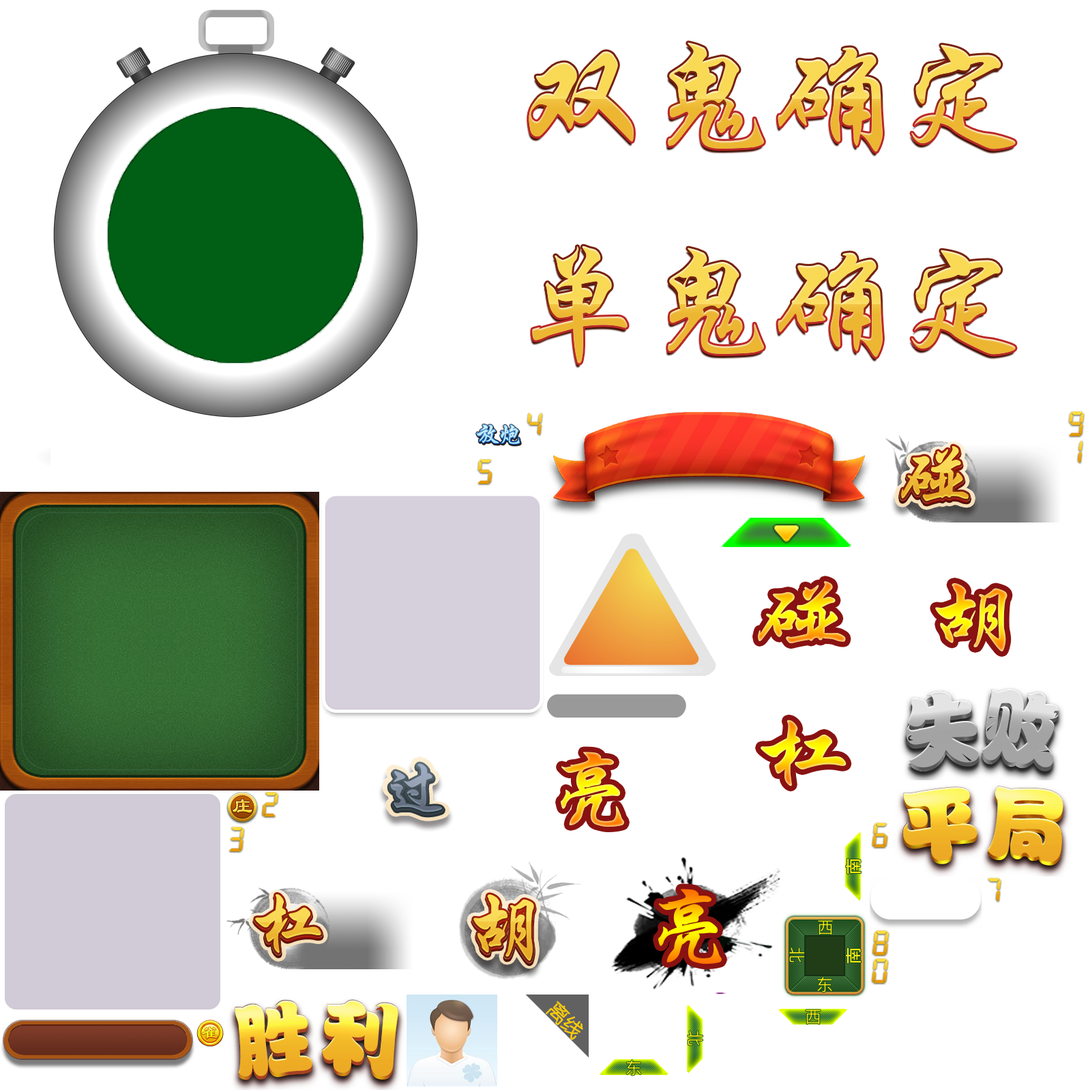
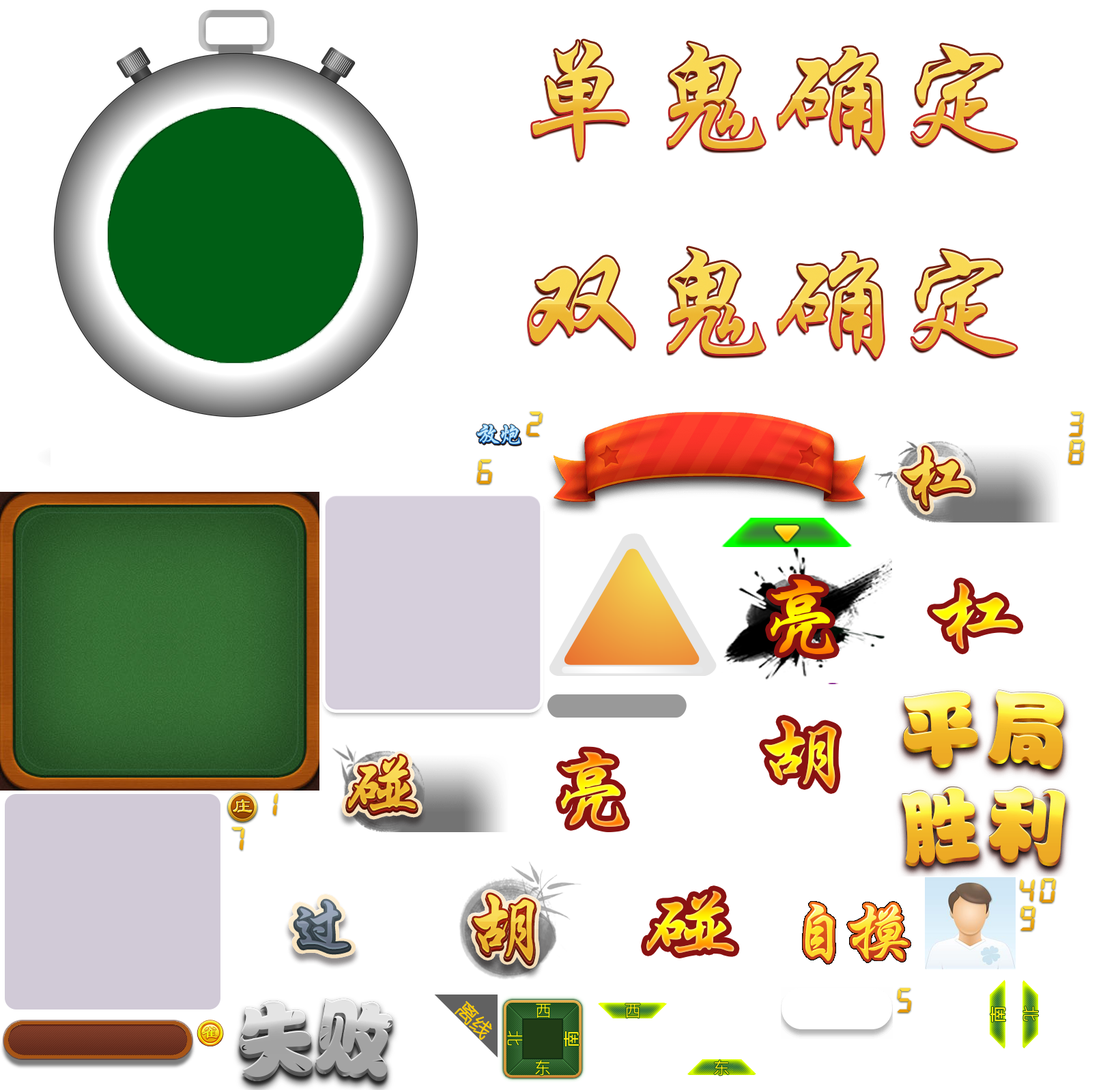
添加自摸的图样

diff --git a/client/src/ui/layaUI.max.all.ts b/client/src/ui/layaUI.max.all.ts
@@ -574,7 +574,7 @@ module ui.test {
 		public btn_left:Laya.Button;
 		public btn_restart:Laya.Button;
 
-        public static  uiView:any ={"type":"View","props":{"width":1920,"height":1080},"child":[{"type":"Image","props":{"y":0,"x":0,"width":1920,"var":"backImage","skin":"ui/game/bg.png","sizeGrid":"150,150,150,150,1","height":1080}},{"type":"Image","props":{"y":1116,"x":719,"skin":"ui/game/result_title_bg.png"},"child":[{"type":"Image","props":{"y":-10,"x":104,"skin":"ui/game/result_title_win.png"}}]},{"type":"Sprite","props":{"y":54,"x":54,"width":2020,"var":"resultLine3","scaleY":0.9,"scaleX":0.9,"height":300},"child":[{"type":"Sprite","props":{"y":-31,"x":3,"width":147,"var":"userHead3","height":216},"child":[{"type":"Image","props":{"y":55,"x":7,"width":133,"skin":"ui/game/user_head_bg.png","height":133},"child":[{"type":"Image","props":{"y":0,"x":0,"width":133,"var":"userHeadMask3","skin":"ui/game/user_head_mask.png","height":133}},{"type":"Sprite","props":{"y":0,"x":0,"width":133,"var":"userHeadIconOut3","height":133},"child":[{"type":"Image","props":{"y":4,"x":7,"width":119,"var":"userHeadIcon3","skin":"ui/game/user_head_default.png","pivotY":0,"pivotX":0,"height":115}}]}]},{"type":"Image","props":{"y":37,"x":-7,"var":"zhuang3","skin":"ui/game/zhangjia.png"}},{"type":"Text","props":{"y":195,"x":-1,"width":142,"var":"userName3","text":"用户名称","height":31,"fontSize":32,"color":"#ffcc01","align":"center"}}]},{"type":"Sprite","props":{"y":0,"x":311,"width":1324,"var":"shouPai3","height":172},"child":[{"type":"Sprite","props":{"y":26,"x":0,"width":250,"visible":false,"var":"peng3","height":128},"child":[{"type":"Image","props":{"y":0,"x":0,"skin":"ui/majiang/zheng_bg.png"},"child":[{"type":"Image","props":{"y":0,"x":0,"skin":"ui/majiang/zheng_19.png"}}]},{"type":"Image","props":{"y":0,"x":84,"skin":"ui/majiang/zheng_bg.png"},"child":[{"type":"Image","props":{"y":0,"x":0,"skin":"ui/majiang/zheng_19.png"}}]},{"type":"Image","props":{"y":0,"x":168,"skin":"ui/majiang/zheng_bg.png"},"child":[{"type":"Image","props":{"y":0,"x":0,"skin":"ui/majiang/zheng_19.png"}}]}]},{"type":"Sprite","props":{"y":26,"x":0,"width":250,"visible":false,"var":"selfPeng3","height":128},"child":[{"type":"Image","props":{"y":0,"x":0,"skin":"ui/majiang/shou_bg.png"},"child":[{"type":"Image","props":{"y":0,"x":0,"skin":"ui/majiang/shou_19.png"}}]},{"type":"Image","props":{"y":0,"x":84,"skin":"ui/majiang/shou_bg.png"},"child":[{"type":"Image","props":{"y":0,"x":0,"skin":"ui/majiang/shou_19.png"}}]},{"type":"Image","props":{"y":0,"x":168,"skin":"ui/majiang/shou_bg.png"},"child":[{"type":"Image","props":{"y":0,"x":0,"skin":"ui/majiang/shou_19.png"}}]}]},{"type":"Sprite","props":{"y":26,"x":508,"width":250,"visible":false,"var":"anGangHide3","height":128},"child":[{"type":"Image","props":{"y":0,"x":84,"skin":"ui/majiang/zheng_an.png"}},{"type":"Image","props":{"y":0,"x":0,"skin":"ui/majiang/zheng_an.png"}},{"type":"Image","props":{"y":-28,"x":84,"skin":"ui/majiang/zheng_an.png"}},{"type":"Image","props":{"y":0,"x":168,"skin":"ui/majiang/zheng_an.png"}}]},{"type":"Sprite","props":{"y":26,"x":760,"width":248,"visible":false,"var":"mingGang3","height":128},"child":[{"type":"Image","props":{"y":0,"x":0,"skin":"ui/majiang/zheng_bg.png"},"child":[{"type":"Image","props":{"y":0,"x":0,"skin":"ui/majiang/zheng_19.png"}}]},{"type":"Image","props":{"y":0,"x":83,"skin":"ui/majiang/zheng_bg.png"},"child":[{"type":"Image","props":{"y":0,"x":0,"skin":"ui/majiang/zheng_19.png"}}]},{"type":"Image","props":{"y":0,"x":166,"skin":"ui/majiang/zheng_bg.png"},"child":[{"type":"Image","props":{"y":0,"x":0,"skin":"ui/majiang/zheng_19.png"}}]},{"type":"Image","props":{"y":-31,"x":83,"skin":"ui/majiang/zheng_bg.png"},"child":[{"type":"Image","props":{"y":0,"x":0,"skin":"ui/majiang/zheng_19.png"}}]}]},{"type":"Sprite","props":{"y":26,"x":254,"width":270,"visible":false,"var":"anGang3","pivotX":0,"height":128},"child":[{"type":"Image","props":{"y":0,"x":84,"skin":"ui/majiang/zheng_an.png"}},{"type":"Image","props":{"y":0,"x":0,"skin":"ui/majiang/zheng_an.png"}},{"type":"Image","props":{"y":0,"x":168,"skin":"ui/majiang/zheng_an.png"}},{"type":"Image","props":{"y":-28,"x":84,"skin":"ui/majiang/zheng_bg.png"},"child":[{"type":"Image","props":{"y":0,"x":0,"skin":"ui/majiang/zheng_19.png"}}]}]},{"type":"Sprite","props":{"y":26,"x":0,"width":82,"visible":false,"var":"shou3","height":128},"child":[{"type":"Image","props":{"y":0,"x":0,"skin":"ui/majiang/shou_bg.png"},"child":[{"type":"Image","props":{"y":0,"x":0,"var":"skin_shoupai3","skin":"ui/majiang/shou_32.png"}}]}]},{"type":"Sprite","props":{"y":0,"x":1200,"width":82,"visible":false,"var":"fa3","pivotY":-26,"height":128},"child":[{"type":"Image","props":{"y":0,"x":0,"width":82,"skin":"ui/majiang/shou_bg.png","height":128},"child":[{"type":"Image","props":{"y":0,"x":0,"skin":"ui/majiang/shou_0.png"}}]}]}]},{"type":"Label","props":{"y":169,"x":313,"width":1190,"visible":false,"var":"win_info3","text":"屁胡X1","height":48,"fontSize":36,"color":"#ffffff"}},{"type":"Label","props":{"y":221,"x":310,"width":1196,"visible":false,"var":"lose_info3","text":"屁胡X1","height":48,"fontSize":36,"color":"#ffffff"}},{"type":"Label","props":{"y":222,"x":1674,"width":308,"visible":true,"var":"oneju_score3","text":"得分：+800","height":48,"fontSize":36,"color":"#ffffff"}},{"type":"Image","props":{"y":16,"x":1705,"width":250,"visible":false,"var":"img_huOrLose3","skin":"ui/game/hu.png","height":200}}]},{"type":"Sprite","props":{"y":334,"x":54,"width":2020,"var":"resultLine0","scaleY":0.9,"scaleX":0.9,"height":300},"child":[{"type":"Sprite","props":{"y":-31,"x":4,"width":147,"var":"userHead0","height":216},"child":[{"type":"Image","props":{"y":55,"x":7,"width":133,"skin":"ui/game/user_head_bg.png","height":133},"child":[{"type":"Image","props":{"y":0,"x":0,"width":133,"skin":"ui/game/user_head_mask.png","height":133}},{"type":"Sprite","props":{"y":0,"x":0,"width":133,"height":133},"child":[{"type":"Image","props":{"y":4,"x":7,"width":119,"var":"userHeadIcon0","skin":"ui/game/user_head_default.png","pivotY":0,"pivotX":0,"height":115}}]}]},{"type":"Image","props":{"y":37,"x":-7,"var":"zhuang0","skin":"ui/game/zhangjia.png"}},{"type":"Text","props":{"y":190,"x":-3,"width":142,"var":"userName0","text":"用户名称","height":31,"fontSize":32,"color":"#ffcc01","align":"center"}}]},{"type":"Sprite","props":{"y":0,"x":311,"width":1324,"var":"shouPai0","height":172},"child":[{"type":"Sprite","props":{"y":26,"x":0,"width":250,"visible":false,"var":"peng0","height":128},"child":[{"type":"Image","props":{"y":0,"x":0,"skin":"ui/majiang/zheng_bg.png"},"child":[{"type":"Image","props":{"y":0,"x":0,"skin":"ui/majiang/zheng_19.png"}}]},{"type":"Image","props":{"y":0,"x":84,"skin":"ui/majiang/zheng_bg.png"},"child":[{"type":"Image","props":{"y":0,"x":0,"skin":"ui/majiang/zheng_19.png"}}]},{"type":"Image","props":{"y":0,"x":168,"skin":"ui/majiang/zheng_bg.png"},"child":[{"type":"Image","props":{"y":0,"x":0,"skin":"ui/majiang/zheng_19.png"}}]}]},{"type":"Sprite","props":{"y":26,"x":0,"width":250,"visible":false,"var":"selfPeng0","height":128},"child":[{"type":"Image","props":{"y":0,"x":0,"skin":"ui/majiang/shou_bg.png"},"child":[{"type":"Image","props":{"y":0,"x":0,"skin":"ui/majiang/shou_19.png"}}]},{"type":"Image","props":{"y":0,"x":84,"skin":"ui/majiang/shou_bg.png"},"child":[{"type":"Image","props":{"y":0,"x":0,"skin":"ui/majiang/shou_19.png"}}]},{"type":"Image","props":{"y":0,"x":168,"skin":"ui/majiang/shou_bg.png"},"child":[{"type":"Image","props":{"y":0,"x":0,"skin":"ui/majiang/shou_19.png"}}]}]},{"type":"Sprite","props":{"y":26,"x":508,"width":250,"visible":false,"var":"anGangHide0","height":128},"child":[{"type":"Image","props":{"y":0,"x":84,"skin":"ui/majiang/zheng_an.png"}},{"type":"Image","props":{"y":0,"x":0,"skin":"ui/majiang/zheng_an.png"}},{"type":"Image","props":{"y":-28,"x":84,"skin":"ui/majiang/zheng_an.png"}},{"type":"Image","props":{"y":0,"x":168,"skin":"ui/majiang/zheng_an.png"}}]},{"type":"Sprite","props":{"y":26,"x":760,"width":248,"visible":false,"var":"mingGang0","height":128},"child":[{"type":"Image","props":{"y":0,"x":0,"skin":"ui/majiang/zheng_bg.png"},"child":[{"type":"Image","props":{"y":0,"x":0,"skin":"ui/majiang/zheng_19.png"}}]},{"type":"Image","props":{"y":0,"x":83,"skin":"ui/majiang/zheng_bg.png"},"child":[{"type":"Image","props":{"y":0,"x":0,"skin":"ui/majiang/zheng_19.png"}}]},{"type":"Image","props":{"y":0,"x":166,"skin":"ui/majiang/zheng_bg.png"},"child":[{"type":"Image","props":{"y":0,"x":0,"skin":"ui/majiang/zheng_19.png"}}]},{"type":"Image","props":{"y":-31,"x":83,"skin":"ui/majiang/zheng_bg.png"},"child":[{"type":"Image","props":{"y":0,"x":0,"skin":"ui/majiang/zheng_19.png"}}]}]},{"type":"Sprite","props":{"y":26,"x":254,"width":270,"visible":false,"var":"anGang0","pivotX":0,"height":128},"child":[{"type":"Image","props":{"y":0,"x":84,"skin":"ui/majiang/zheng_an.png"}},{"type":"Image","props":{"y":0,"x":0,"skin":"ui/majiang/zheng_an.png"}},{"type":"Image","props":{"y":0,"x":168,"skin":"ui/majiang/zheng_an.png"}},{"type":"Image","props":{"y":-28,"x":84,"skin":"ui/majiang/zheng_bg.png"},"child":[{"type":"Image","props":{"y":0,"x":0,"skin":"ui/majiang/zheng_19.png"}}]}]},{"type":"Sprite","props":{"y":26,"x":0,"width":82,"visible":false,"var":"shou0","height":128},"child":[{"type":"Image","props":{"y":0,"x":0,"skin":"ui/majiang/shou_bg.png"},"child":[{"type":"Image","props":{"y":0,"x":0,"var":"skin_shoupai0","skin":"ui/majiang/shou_32.png"}}]}]},{"type":"Sprite","props":{"y":0,"x":1200,"width":82,"visible":false,"var":"fa0","pivotY":-26,"height":128},"child":[{"type":"Image","props":{"y":0,"x":0,"width":82,"skin":"ui/majiang/shou_bg.png","height":128},"child":[{"type":"Image","props":{"y":0,"x":0,"skin":"ui/majiang/shou_0.png"}}]}]}]},{"type":"Label","props":{"y":169,"x":313,"width":1194,"visible":false,"var":"win_info0","text":"屁胡X1","height":48,"fontSize":36,"color":"#ffffff"}},{"type":"Label","props":{"y":222,"x":313,"width":1197,"visible":false,"var":"lose_info0","text":"屁胡X1","height":48,"fontSize":36,"color":"#ffffff"}},{"type":"Label","props":{"y":225,"x":1670,"width":312,"visible":true,"var":"oneju_score0","text":"总分：+800","height":48,"fontSize":36,"color":"#ffffff"}},{"type":"Image","props":{"y":16,"x":1705,"width":250,"visible":false,"var":"img_huOrLose0","skin":"ui/game/fangpao.png","height":200}}]},{"type":"Sprite","props":{"y":632,"x":58,"width":2020,"var":"resultLine2","scaleY":0.9,"scaleX":0.9,"height":300},"child":[{"type":"Sprite","props":{"y":-26,"x":6,"width":147,"var":"userHead2","height":216},"child":[{"type":"Image","props":{"y":55,"x":7,"width":133,"skin":"ui/game/user_head_bg.png","height":133},"child":[{"type":"Image","props":{"y":0,"x":0,"width":133,"skin":"ui/game/user_head_mask.png","height":133}},{"type":"Sprite","props":{"y":0,"x":0,"width":133,"height":133},"child":[{"type":"Image","props":{"y":4,"x":7,"width":119,"var":"userHeadIcon2","skin":"ui/game/user_head_default.png","pivotY":0,"pivotX":0,"height":115}}]}]},{"type":"Image","props":{"y":37,"x":-7,"var":"zhuang2","skin":"ui/game/zhangjia.png"}},{"type":"Text","props":{"y":192,"x":1,"width":142,"var":"userName2","text":"用户名称","height":31,"fontSize":32,"color":"#ffcc01","align":"center"}}]},{"type":"Sprite","props":{"y":0,"x":311,"width":1324,"var":"shouPai2","height":172},"child":[{"type":"Sprite","props":{"y":26,"x":0,"width":250,"visible":false,"var":"peng2","height":128},"child":[{"type":"Image","props":{"y":0,"x":0,"skin":"ui/majiang/zheng_bg.png"},"child":[{"type":"Image","props":{"y":0,"x":0,"skin":"ui/majiang/zheng_19.png"}}]},{"type":"Image","props":{"y":0,"x":84,"skin":"ui/majiang/zheng_bg.png"},"child":[{"type":"Image","props":{"y":0,"x":0,"skin":"ui/majiang/zheng_19.png"}}]},{"type":"Image","props":{"y":0,"x":168,"skin":"ui/majiang/zheng_bg.png"},"child":[{"type":"Image","props":{"y":0,"x":0,"skin":"ui/majiang/zheng_19.png"}}]}]},{"type":"Sprite","props":{"y":26,"x":0,"width":250,"visible":false,"var":"selfPeng2","height":128},"child":[{"type":"Image","props":{"y":0,"x":0,"skin":"ui/majiang/shou_bg.png"},"child":[{"type":"Image","props":{"y":0,"x":0,"skin":"ui/majiang/shou_19.png"}}]},{"type":"Image","props":{"y":0,"x":84,"skin":"ui/majiang/shou_bg.png"},"child":[{"type":"Image","props":{"y":0,"x":0,"skin":"ui/majiang/shou_19.png"}}]},{"type":"Image","props":{"y":0,"x":168,"skin":"ui/majiang/shou_bg.png"},"child":[{"type":"Image","props":{"y":0,"x":0,"skin":"ui/majiang/shou_19.png"}}]}]},{"type":"Sprite","props":{"y":26,"x":508,"width":250,"visible":false,"var":"anGangHide2","height":128},"child":[{"type":"Image","props":{"y":0,"x":84,"skin":"ui/majiang/zheng_an.png"}},{"type":"Image","props":{"y":0,"x":0,"skin":"ui/majiang/zheng_an.png"}},{"type":"Image","props":{"y":-28,"x":84,"skin":"ui/majiang/zheng_an.png"}},{"type":"Image","props":{"y":0,"x":168,"skin":"ui/majiang/zheng_an.png"}}]},{"type":"Sprite","props":{"y":26,"x":760,"width":248,"visible":false,"var":"mingGang2","height":128},"child":[{"type":"Image","props":{"y":0,"x":0,"skin":"ui/majiang/zheng_bg.png"},"child":[{"type":"Image","props":{"y":0,"x":0,"skin":"ui/majiang/zheng_19.png"}}]},{"type":"Image","props":{"y":0,"x":83,"skin":"ui/majiang/zheng_bg.png"},"child":[{"type":"Image","props":{"y":0,"x":0,"skin":"ui/majiang/zheng_19.png"}}]},{"type":"Image","props":{"y":0,"x":166,"skin":"ui/majiang/zheng_bg.png"},"child":[{"type":"Image","props":{"y":0,"x":0,"skin":"ui/majiang/zheng_19.png"}}]},{"type":"Image","props":{"y":-31,"x":83,"skin":"ui/majiang/zheng_bg.png"},"child":[{"type":"Image","props":{"y":0,"x":0,"skin":"ui/majiang/zheng_19.png"}}]}]},{"type":"Sprite","props":{"y":26,"x":254,"width":270,"visible":false,"var":"anGang2","pivotX":0,"height":128},"child":[{"type":"Image","props":{"y":0,"x":84,"skin":"ui/majiang/zheng_an.png"}},{"type":"Image","props":{"y":0,"x":0,"skin":"ui/majiang/zheng_an.png"}},{"type":"Image","props":{"y":0,"x":168,"skin":"ui/majiang/zheng_an.png"}},{"type":"Image","props":{"y":-28,"x":84,"skin":"ui/majiang/zheng_bg.png"},"child":[{"type":"Image","props":{"y":0,"x":0,"skin":"ui/majiang/zheng_19.png"}}]}]},{"type":"Sprite","props":{"y":26,"x":0,"width":82,"visible":false,"var":"shou2","height":128},"child":[{"type":"Image","props":{"y":0,"x":0,"skin":"ui/majiang/shou_bg.png"},"child":[{"type":"Image","props":{"y":0,"x":0,"var":"skin_shoupai2","skin":"ui/majiang/shou_32.png"}}]}]},{"type":"Sprite","props":{"y":0,"x":1200,"width":82,"visible":false,"var":"fa2","pivotY":-26,"height":128},"child":[{"type":"Image","props":{"y":0,"x":0,"width":82,"skin":"ui/majiang/shou_bg.png","height":128},"child":[{"type":"Image","props":{"y":0,"x":0,"skin":"ui/majiang/shou_0.png"}}]}]}]},{"type":"Label","props":{"y":169,"x":313,"width":1194,"visible":false,"var":"win_info2","text":"屁胡X1","height":48,"fontSize":36,"color":"#ffffff"}},{"type":"Label","props":{"y":221,"x":310,"width":1194,"visible":false,"var":"lose_info2","text":"屁胡X1","height":48,"fontSize":36,"color":"#ffffff"}},{"type":"Label","props":{"y":217,"x":1671,"width":314,"visible":true,"var":"oneju_score2","text":"总分：+800","height":48,"fontSize":36,"color":"#ffffff"}},{"type":"Image","props":{"y":16,"x":1705,"width":250,"visible":false,"var":"img_huOrLose2","skin":"ui/game/hu.png","height":200}}]},{"type":"Button","props":{"y":930,"x":1091,"var":"btn_left","skin":"base/btn_danger.png","scaleY":1.5,"scaleX":1.5,"labelSize":38,"labelPadding":"0,0,6,0","labelColors":"#FFFFFF,#FFFFFF,#FFFFFF","label":"离开"}},{"type":"Button","props":{"y":930,"x":1445,"var":"btn_restart","skin":"base/btn_normal.png","scaleY":1.5,"scaleX":1.5,"labelSize":36,"labelPadding":"0,0,6,0","labelColors":"#FFFFFF,#FFFFFF,#FFFFFF","label":"再来一局(9)"}}]};
+        public static  uiView:any ={"type":"View","props":{"width":1920,"height":1080},"child":[{"type":"Image","props":{"y":0,"x":0,"width":1920,"var":"backImage","skin":"ui/game/bg.png","sizeGrid":"150,150,150,150,1","height":1080}},{"type":"Image","props":{"y":1116,"x":719,"skin":"ui/game/result_title_bg.png"},"child":[{"type":"Image","props":{"y":-10,"x":104,"skin":"ui/game/result_title_win.png"}}]},{"type":"Sprite","props":{"y":54,"x":54,"width":2020,"var":"resultLine3","scaleY":0.9,"scaleX":0.9,"height":300},"child":[{"type":"Sprite","props":{"y":-31,"x":3,"width":147,"var":"userHead3","height":216},"child":[{"type":"Image","props":{"y":55,"x":7,"width":133,"skin":"ui/game/user_head_bg.png","height":133},"child":[{"type":"Image","props":{"y":0,"x":0,"width":133,"var":"userHeadMask3","skin":"ui/game/user_head_mask.png","height":133}},{"type":"Sprite","props":{"y":0,"x":0,"width":133,"var":"userHeadIconOut3","height":133},"child":[{"type":"Image","props":{"y":4,"x":7,"width":119,"var":"userHeadIcon3","skin":"ui/game/user_head_default.png","pivotY":0,"pivotX":0,"height":115}}]}]},{"type":"Image","props":{"y":37,"x":-7,"var":"zhuang3","skin":"ui/game/zhangjia.png"}},{"type":"Text","props":{"y":195,"x":-1,"width":142,"var":"userName3","text":"用户名称","height":31,"fontSize":32,"color":"#ffcc01","align":"center"}}]},{"type":"Sprite","props":{"y":0,"x":311,"width":1324,"var":"shouPai3","height":172},"child":[{"type":"Sprite","props":{"y":26,"x":0,"width":250,"visible":false,"var":"peng3","height":128},"child":[{"type":"Image","props":{"y":0,"x":0,"skin":"ui/majiang/zheng_bg.png"},"child":[{"type":"Image","props":{"y":0,"x":0,"skin":"ui/majiang/zheng_19.png"}}]},{"type":"Image","props":{"y":0,"x":84,"skin":"ui/majiang/zheng_bg.png"},"child":[{"type":"Image","props":{"y":0,"x":0,"skin":"ui/majiang/zheng_19.png"}}]},{"type":"Image","props":{"y":0,"x":168,"skin":"ui/majiang/zheng_bg.png"},"child":[{"type":"Image","props":{"y":0,"x":0,"skin":"ui/majiang/zheng_19.png"}}]}]},{"type":"Sprite","props":{"y":26,"x":0,"width":250,"visible":false,"var":"selfPeng3","height":128},"child":[{"type":"Image","props":{"y":0,"x":0,"skin":"ui/majiang/shou_bg.png"},"child":[{"type":"Image","props":{"y":0,"x":0,"skin":"ui/majiang/shou_19.png"}}]},{"type":"Image","props":{"y":0,"x":84,"skin":"ui/majiang/shou_bg.png"},"child":[{"type":"Image","props":{"y":0,"x":0,"skin":"ui/majiang/shou_19.png"}}]},{"type":"Image","props":{"y":0,"x":168,"skin":"ui/majiang/shou_bg.png"},"child":[{"type":"Image","props":{"y":0,"x":0,"skin":"ui/majiang/shou_19.png"}}]}]},{"type":"Sprite","props":{"y":26,"x":508,"width":250,"visible":false,"var":"anGangHide3","height":128},"child":[{"type":"Image","props":{"y":0,"x":84,"skin":"ui/majiang/zheng_an.png"}},{"type":"Image","props":{"y":0,"x":0,"skin":"ui/majiang/zheng_an.png"}},{"type":"Image","props":{"y":-28,"x":84,"skin":"ui/majiang/zheng_an.png"}},{"type":"Image","props":{"y":0,"x":168,"skin":"ui/majiang/zheng_an.png"}}]},{"type":"Sprite","props":{"y":26,"x":760,"width":248,"visible":false,"var":"mingGang3","height":128},"child":[{"type":"Image","props":{"y":0,"x":0,"skin":"ui/majiang/zheng_bg.png"},"child":[{"type":"Image","props":{"y":0,"x":0,"skin":"ui/majiang/zheng_19.png"}}]},{"type":"Image","props":{"y":0,"x":83,"skin":"ui/majiang/zheng_bg.png"},"child":[{"type":"Image","props":{"y":0,"x":0,"skin":"ui/majiang/zheng_19.png"}}]},{"type":"Image","props":{"y":0,"x":166,"skin":"ui/majiang/zheng_bg.png"},"child":[{"type":"Image","props":{"y":0,"x":0,"skin":"ui/majiang/zheng_19.png"}}]},{"type":"Image","props":{"y":-31,"x":83,"skin":"ui/majiang/zheng_bg.png"},"child":[{"type":"Image","props":{"y":0,"x":0,"skin":"ui/majiang/zheng_19.png"}}]}]},{"type":"Sprite","props":{"y":26,"x":254,"width":270,"visible":false,"var":"anGang3","pivotX":0,"height":128},"child":[{"type":"Image","props":{"y":0,"x":84,"skin":"ui/majiang/zheng_an.png"}},{"type":"Image","props":{"y":0,"x":0,"skin":"ui/majiang/zheng_an.png"}},{"type":"Image","props":{"y":0,"x":168,"skin":"ui/majiang/zheng_an.png"}},{"type":"Image","props":{"y":-28,"x":84,"skin":"ui/majiang/zheng_bg.png"},"child":[{"type":"Image","props":{"y":0,"x":0,"skin":"ui/majiang/zheng_19.png"}}]}]},{"type":"Sprite","props":{"y":26,"x":0,"width":82,"visible":false,"var":"shou3","height":128},"child":[{"type":"Image","props":{"y":0,"x":0,"skin":"ui/majiang/shou_bg.png"},"child":[{"type":"Image","props":{"y":0,"x":0,"var":"skin_shoupai3","skin":"ui/majiang/shou_32.png"}}]}]},{"type":"Sprite","props":{"y":0,"x":1200,"width":82,"visible":false,"var":"fa3","pivotY":-26,"height":128},"child":[{"type":"Image","props":{"y":0,"x":0,"width":82,"skin":"ui/majiang/shou_bg.png","height":128},"child":[{"type":"Image","props":{"y":0,"x":0,"skin":"ui/majiang/shou_0.png"}}]}]}]},{"type":"Label","props":{"y":169,"x":313,"width":1190,"visible":false,"var":"win_info3","text":"屁胡X1","height":48,"fontSize":36,"color":"#ffffff"}},{"type":"Label","props":{"y":221,"x":310,"width":1196,"visible":false,"var":"lose_info3","text":"屁胡X1","height":48,"fontSize":36,"color":"#ffffff"}},{"type":"Label","props":{"y":222,"x":1674,"width":308,"visible":true,"var":"oneju_score3","text":"得分：+800","height":48,"fontSize":36,"color":"#ffffff"}},{"type":"Image","props":{"y":16,"x":1705,"width":250,"visible":false,"var":"img_huOrLose3","skin":"ui/game/zimo.png","height":200}}]},{"type":"Sprite","props":{"y":334,"x":54,"width":2020,"var":"resultLine0","scaleY":0.9,"scaleX":0.9,"height":300},"child":[{"type":"Sprite","props":{"y":-31,"x":4,"width":147,"var":"userHead0","height":216},"child":[{"type":"Image","props":{"y":55,"x":7,"width":133,"skin":"ui/game/user_head_bg.png","height":133},"child":[{"type":"Image","props":{"y":0,"x":0,"width":133,"skin":"ui/game/user_head_mask.png","height":133}},{"type":"Sprite","props":{"y":0,"x":0,"width":133,"height":133},"child":[{"type":"Image","props":{"y":4,"x":7,"width":119,"var":"userHeadIcon0","skin":"ui/game/user_head_default.png","pivotY":0,"pivotX":0,"height":115}}]}]},{"type":"Image","props":{"y":37,"x":-7,"var":"zhuang0","skin":"ui/game/zhangjia.png"}},{"type":"Text","props":{"y":190,"x":-3,"width":142,"var":"userName0","text":"用户名称","height":31,"fontSize":32,"color":"#ffcc01","align":"center"}}]},{"type":"Sprite","props":{"y":0,"x":311,"width":1324,"var":"shouPai0","height":172},"child":[{"type":"Sprite","props":{"y":26,"x":0,"width":250,"visible":false,"var":"peng0","height":128},"child":[{"type":"Image","props":{"y":0,"x":0,"skin":"ui/majiang/zheng_bg.png"},"child":[{"type":"Image","props":{"y":0,"x":0,"skin":"ui/majiang/zheng_19.png"}}]},{"type":"Image","props":{"y":0,"x":84,"skin":"ui/majiang/zheng_bg.png"},"child":[{"type":"Image","props":{"y":0,"x":0,"skin":"ui/majiang/zheng_19.png"}}]},{"type":"Image","props":{"y":0,"x":168,"skin":"ui/majiang/zheng_bg.png"},"child":[{"type":"Image","props":{"y":0,"x":0,"skin":"ui/majiang/zheng_19.png"}}]}]},{"type":"Sprite","props":{"y":26,"x":0,"width":250,"visible":false,"var":"selfPeng0","height":128},"child":[{"type":"Image","props":{"y":0,"x":0,"skin":"ui/majiang/shou_bg.png"},"child":[{"type":"Image","props":{"y":0,"x":0,"skin":"ui/majiang/shou_19.png"}}]},{"type":"Image","props":{"y":0,"x":84,"skin":"ui/majiang/shou_bg.png"},"child":[{"type":"Image","props":{"y":0,"x":0,"skin":"ui/majiang/shou_19.png"}}]},{"type":"Image","props":{"y":0,"x":168,"skin":"ui/majiang/shou_bg.png"},"child":[{"type":"Image","props":{"y":0,"x":0,"skin":"ui/majiang/shou_19.png"}}]}]},{"type":"Sprite","props":{"y":26,"x":508,"width":250,"visible":false,"var":"anGangHide0","height":128},"child":[{"type":"Image","props":{"y":0,"x":84,"skin":"ui/majiang/zheng_an.png"}},{"type":"Image","props":{"y":0,"x":0,"skin":"ui/majiang/zheng_an.png"}},{"type":"Image","props":{"y":-28,"x":84,"skin":"ui/majiang/zheng_an.png"}},{"type":"Image","props":{"y":0,"x":168,"skin":"ui/majiang/zheng_an.png"}}]},{"type":"Sprite","props":{"y":26,"x":760,"width":248,"visible":false,"var":"mingGang0","height":128},"child":[{"type":"Image","props":{"y":0,"x":0,"skin":"ui/majiang/zheng_bg.png"},"child":[{"type":"Image","props":{"y":0,"x":0,"skin":"ui/majiang/zheng_19.png"}}]},{"type":"Image","props":{"y":0,"x":83,"skin":"ui/majiang/zheng_bg.png"},"child":[{"type":"Image","props":{"y":0,"x":0,"skin":"ui/majiang/zheng_19.png"}}]},{"type":"Image","props":{"y":0,"x":166,"skin":"ui/majiang/zheng_bg.png"},"child":[{"type":"Image","props":{"y":0,"x":0,"skin":"ui/majiang/zheng_19.png"}}]},{"type":"Image","props":{"y":-31,"x":83,"skin":"ui/majiang/zheng_bg.png"},"child":[{"type":"Image","props":{"y":0,"x":0,"skin":"ui/majiang/zheng_19.png"}}]}]},{"type":"Sprite","props":{"y":26,"x":254,"width":270,"visible":false,"var":"anGang0","pivotX":0,"height":128},"child":[{"type":"Image","props":{"y":0,"x":84,"skin":"ui/majiang/zheng_an.png"}},{"type":"Image","props":{"y":0,"x":0,"skin":"ui/majiang/zheng_an.png"}},{"type":"Image","props":{"y":0,"x":168,"skin":"ui/majiang/zheng_an.png"}},{"type":"Image","props":{"y":-28,"x":84,"skin":"ui/majiang/zheng_bg.png"},"child":[{"type":"Image","props":{"y":0,"x":0,"skin":"ui/majiang/zheng_19.png"}}]}]},{"type":"Sprite","props":{"y":26,"x":0,"width":82,"visible":false,"var":"shou0","height":128},"child":[{"type":"Image","props":{"y":0,"x":0,"skin":"ui/majiang/shou_bg.png"},"child":[{"type":"Image","props":{"y":0,"x":0,"var":"skin_shoupai0","skin":"ui/majiang/shou_32.png"}}]}]},{"type":"Sprite","props":{"y":0,"x":1200,"width":82,"visible":false,"var":"fa0","pivotY":-26,"height":128},"child":[{"type":"Image","props":{"y":0,"x":0,"width":82,"skin":"ui/majiang/shou_bg.png","height":128},"child":[{"type":"Image","props":{"y":0,"x":0,"skin":"ui/majiang/shou_0.png"}}]}]}]},{"type":"Label","props":{"y":169,"x":313,"width":1194,"visible":false,"var":"win_info0","text":"屁胡X1","height":48,"fontSize":36,"color":"#ffffff"}},{"type":"Label","props":{"y":222,"x":313,"width":1197,"visible":false,"var":"lose_info0","text":"屁胡X1","height":48,"fontSize":36,"color":"#ffffff"}},{"type":"Label","props":{"y":225,"x":1670,"width":312,"visible":true,"var":"oneju_score0","text":"总分：+800","height":48,"fontSize":36,"color":"#ffffff"}},{"type":"Image","props":{"y":16,"x":1705,"width":250,"visible":false,"var":"img_huOrLose0","skin":"ui/game/fangpao.png","height":200}}]},{"type":"Sprite","props":{"y":632,"x":58,"width":2020,"var":"resultLine2","scaleY":0.9,"scaleX":0.9,"height":300},"child":[{"type":"Sprite","props":{"y":-26,"x":6,"width":147,"var":"userHead2","height":216},"child":[{"type":"Image","props":{"y":55,"x":7,"width":133,"skin":"ui/game/user_head_bg.png","height":133},"child":[{"type":"Image","props":{"y":0,"x":0,"width":133,"skin":"ui/game/user_head_mask.png","height":133}},{"type":"Sprite","props":{"y":0,"x":0,"width":133,"height":133},"child":[{"type":"Image","props":{"y":4,"x":7,"width":119,"var":"userHeadIcon2","skin":"ui/game/user_head_default.png","pivotY":0,"pivotX":0,"height":115}}]}]},{"type":"Image","props":{"y":37,"x":-7,"var":"zhuang2","skin":"ui/game/zhangjia.png"}},{"type":"Text","props":{"y":192,"x":1,"width":142,"var":"userName2","text":"用户名称","height":31,"fontSize":32,"color":"#ffcc01","align":"center"}}]},{"type":"Sprite","props":{"y":0,"x":311,"width":1324,"var":"shouPai2","height":172},"child":[{"type":"Sprite","props":{"y":26,"x":0,"width":250,"visible":false,"var":"peng2","height":128},"child":[{"type":"Image","props":{"y":0,"x":0,"skin":"ui/majiang/zheng_bg.png"},"child":[{"type":"Image","props":{"y":0,"x":0,"skin":"ui/majiang/zheng_19.png"}}]},{"type":"Image","props":{"y":0,"x":84,"skin":"ui/majiang/zheng_bg.png"},"child":[{"type":"Image","props":{"y":0,"x":0,"skin":"ui/majiang/zheng_19.png"}}]},{"type":"Image","props":{"y":0,"x":168,"skin":"ui/majiang/zheng_bg.png"},"child":[{"type":"Image","props":{"y":0,"x":0,"skin":"ui/majiang/zheng_19.png"}}]}]},{"type":"Sprite","props":{"y":26,"x":0,"width":250,"visible":false,"var":"selfPeng2","height":128},"child":[{"type":"Image","props":{"y":0,"x":0,"skin":"ui/majiang/shou_bg.png"},"child":[{"type":"Image","props":{"y":0,"x":0,"skin":"ui/majiang/shou_19.png"}}]},{"type":"Image","props":{"y":0,"x":84,"skin":"ui/majiang/shou_bg.png"},"child":[{"type":"Image","props":{"y":0,"x":0,"skin":"ui/majiang/shou_19.png"}}]},{"type":"Image","props":{"y":0,"x":168,"skin":"ui/majiang/shou_bg.png"},"child":[{"type":"Image","props":{"y":0,"x":0,"skin":"ui/majiang/shou_19.png"}}]}]},{"type":"Sprite","props":{"y":26,"x":508,"width":250,"visible":false,"var":"anGangHide2","height":128},"child":[{"type":"Image","props":{"y":0,"x":84,"skin":"ui/majiang/zheng_an.png"}},{"type":"Image","props":{"y":0,"x":0,"skin":"ui/majiang/zheng_an.png"}},{"type":"Image","props":{"y":-28,"x":84,"skin":"ui/majiang/zheng_an.png"}},{"type":"Image","props":{"y":0,"x":168,"skin":"ui/majiang/zheng_an.png"}}]},{"type":"Sprite","props":{"y":26,"x":760,"width":248,"visible":false,"var":"mingGang2","height":128},"child":[{"type":"Image","props":{"y":0,"x":0,"skin":"ui/majiang/zheng_bg.png"},"child":[{"type":"Image","props":{"y":0,"x":0,"skin":"ui/majiang/zheng_19.png"}}]},{"type":"Image","props":{"y":0,"x":83,"skin":"ui/majiang/zheng_bg.png"},"child":[{"type":"Image","props":{"y":0,"x":0,"skin":"ui/majiang/zheng_19.png"}}]},{"type":"Image","props":{"y":0,"x":166,"skin":"ui/majiang/zheng_bg.png"},"child":[{"type":"Image","props":{"y":0,"x":0,"skin":"ui/majiang/zheng_19.png"}}]},{"type":"Image","props":{"y":-31,"x":83,"skin":"ui/majiang/zheng_bg.png"},"child":[{"type":"Image","props":{"y":0,"x":0,"skin":"ui/majiang/zheng_19.png"}}]}]},{"type":"Sprite","props":{"y":26,"x":254,"width":270,"visible":false,"var":"anGang2","pivotX":0,"height":128},"child":[{"type":"Image","props":{"y":0,"x":84,"skin":"ui/majiang/zheng_an.png"}},{"type":"Image","props":{"y":0,"x":0,"skin":"ui/majiang/zheng_an.png"}},{"type":"Image","props":{"y":0,"x":168,"skin":"ui/majiang/zheng_an.png"}},{"type":"Image","props":{"y":-28,"x":84,"skin":"ui/majiang/zheng_bg.png"},"child":[{"type":"Image","props":{"y":0,"x":0,"skin":"ui/majiang/zheng_19.png"}}]}]},{"type":"Sprite","props":{"y":26,"x":0,"width":82,"visible":false,"var":"shou2","height":128},"child":[{"type":"Image","props":{"y":0,"x":0,"skin":"ui/majiang/shou_bg.png"},"child":[{"type":"Image","props":{"y":0,"x":0,"var":"skin_shoupai2","skin":"ui/majiang/shou_32.png"}}]}]},{"type":"Sprite","props":{"y":0,"x":1200,"width":82,"visible":false,"var":"fa2","pivotY":-26,"height":128},"child":[{"type":"Image","props":{"y":0,"x":0,"width":82,"skin":"ui/majiang/shou_bg.png","height":128},"child":[{"type":"Image","props":{"y":0,"x":0,"skin":"ui/majiang/shou_0.png"}}]}]}]},{"type":"Label","props":{"y":169,"x":313,"width":1194,"visible":false,"var":"win_info2","text":"屁胡X1","height":48,"fontSize":36,"color":"#ffffff"}},{"type":"Label","props":{"y":221,"x":310,"width":1194,"visible":false,"var":"lose_info2","text":"屁胡X1","height":48,"fontSize":36,"color":"#ffffff"}},{"type":"Label","props":{"y":217,"x":1671,"width":314,"visible":true,"var":"oneju_score2","text":"总分：+800","height":48,"fontSize":36,"color":"#ffffff"}},{"type":"Image","props":{"y":16,"x":1705,"width":250,"visible":false,"var":"img_huOrLose2","skin":"ui/game/hu.png","height":200}}]},{"type":"Button","props":{"y":930,"x":1091,"var":"btn_left","skin":"base/btn_danger.png","scaleY":1.5,"scaleX":1.5,"labelSize":38,"labelPadding":"0,0,6,0","labelColors":"#FFFFFF,#FFFFFF,#FFFFFF","label":"离开"}},{"type":"Button","props":{"y":930,"x":1445,"var":"btn_restart","skin":"base/btn_normal.png","scaleY":1.5,"scaleX":1.5,"labelSize":36,"labelPadding":"0,0,6,0","labelColors":"#FFFFFF,#FFFFFF,#FFFFFF","label":"再来一局(9)"}}]};
         constructor(){ super()}
         createChildren():void {
         			View.regComponent("Text",laya.display.Text);
